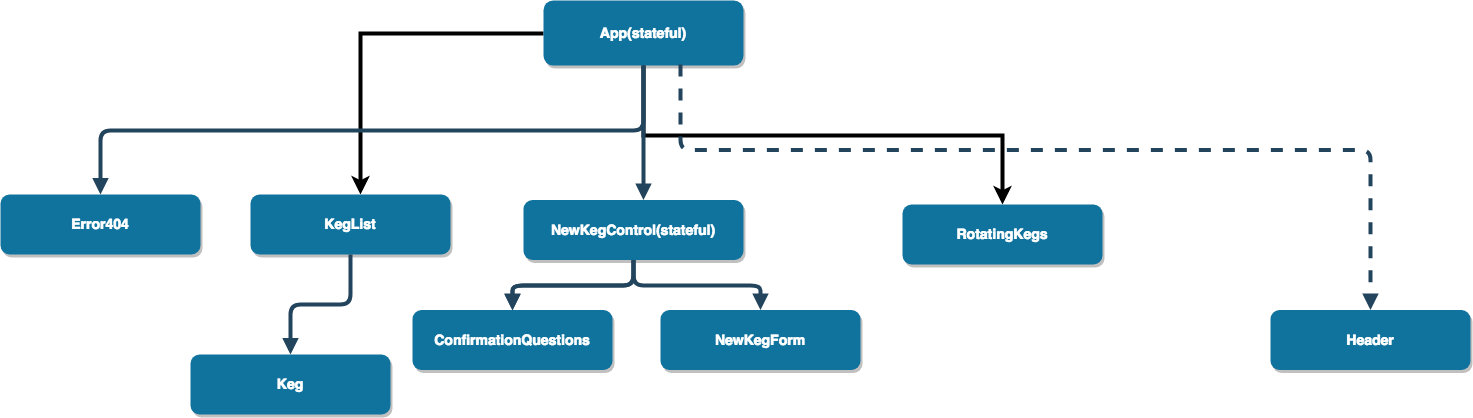
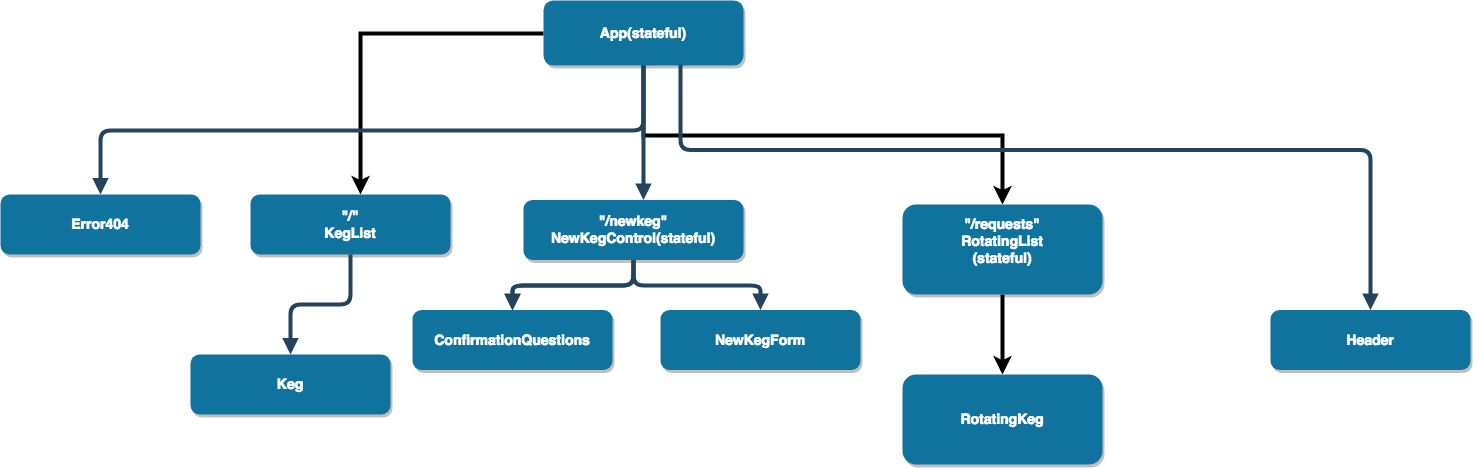
edit styles and readme

diff --git a/src/components/KegList.jsx b/src/components/KegList.jsx
@@ -5,6 +5,7 @@ import ibis from '../assets/ibis.png';
 import blackcat from '../assets/blackcat.png';
 import maxx from '../assets/maxx.png';
 import serengeti from '../assets/serengeti.png';
+import kegs from '../assets/kegs.jpg';
 
 
 
@@ -60,15 +61,30 @@ const masterKegList = [
 function KegList() {
   return (
     <div>
-      {masterKegList.map((keg, index) =>
-        <Keg name={keg.name}
-          description={keg.description}
-          brewer={keg.brewer}
-          price={keg.price}
-          remaining={keg.remaining}
-          img={keg.img}
-          key={index}/>
-      )}
+      <style jsx>{`
+        .head {
+          text-align: center
+          background-image: url(${kegs});
+        }
+        img {
+          object-fit: cover;
+        }
+        `}
+      </style>
+      <div className="head">
+        
+      </div>
+      <div>
+        {masterKegList.map((keg, index) =>
+          <Keg name={keg.name}
+            description={keg.description}
+            brewer={keg.brewer}
+            price={keg.price}
+            remaining={keg.remaining}
+            img={keg.img}
+            key={index}/>
+        )}
+      </div>
     </div>
   );
 }

diff --git a/src/components/Header.jsx b/src/components/Header.jsx
@@ -16,21 +16,16 @@ function Header() {
               text-shadow: 1px 1px white;
               font-family: Georgia, serif
             }
-            img {
-              object-fit: cover;
-            }
        `}</style>
       <div className='header'>
-        <div>
-          <div className='jumbotron'>
-            <p>Est. 1985</p>
-            <h1>Bonafide Brewing</h1>
-            <h4>This Month's featured brewery: <em>Mac & Jack's</em></h4>
-          </div>
-          <button><Link to="/">Home</Link></button>
-          <button><Link to="/newkeg">Beer Request</Link></button>
-          <button><Link to="/rotators">Requested Beer List</Link></button>
+        <div className='jumbotron'>
+          <p>Est. 1985</p>
+          <h1>Bonafide Brewing</h1>
+          <h4>This Month's featured brewery: <em>Mac & Jack's</em></h4>
         </div>
+        <button><Link to="/">Home</Link></button>
+        <button><Link to="/newkeg">Beer Request</Link></button>
+        <button><Link to="/requests">Requested Beer List</Link></button>
       </div>
     </div>
   );

diff --git a/src/components/RotatingKeg.jsx b/src/components/RotatingKeg.jsx
@@ -28,7 +28,10 @@ function RotatingKeg(props) {
           .card-body {
             margin: auto;
           }
-          .row {
+          button {
+            width: 200px;
+            text-align: left;
+            height: 40px;
           }
       `}
       </style>
@@ -52,8 +55,8 @@ function RotatingKeg(props) {
             <p>{props.thumbsDown}</p>
           </div>
           <div className="col-md-9">
-            <button onClick={()=>props.onClickUp(props.id)}>👍</button><br/>
-            <button onClick={()=>props.onClickDown(props.id)}>👎</button>
+            <button onClick={()=>props.onClickUp(props.id)}>👍 Yes Please</button><br/>
+            <button onClick={()=>props.onClickDown(props.id)}>👎 Not My Favorite</button>
           </div>
         </div>
       </div>

diff --git a/src/components/App.jsx b/src/components/App.jsx
@@ -45,7 +45,7 @@ class App extends React.Component {
         <Switch>
           <Route exact path='/' component={KegList} />
           <Route path='/newkeg' render={()=><NewKegControl onNewKegCreation={this.handleAddingNewKegToList} />} />
-          <Route path='/rotators' render={()=><RotatingList kegList={this.state.rotatingKegList} />} />
+          <Route path='/requests' render={()=><RotatingList kegList={this.state.rotatingKegList} />} />
           <Route component={Error404} />
         </Switch>
       </div>

diff --git a/README.md b/README.md
@@ -6,9 +6,11 @@ Eliot Charette
 September 2018
 
 ## Installation
-1. Clone to your local computer from github.
-2. First type "npm i" in your command line.
-3. Then type "npm run start" in your command line.
+
+1. git clone https://github.com/eliotcharette/Tap-room-react.git
+2. cd Tap-room-react
+3. npm install
+4 npm run start
 
 
 ## Specifications
